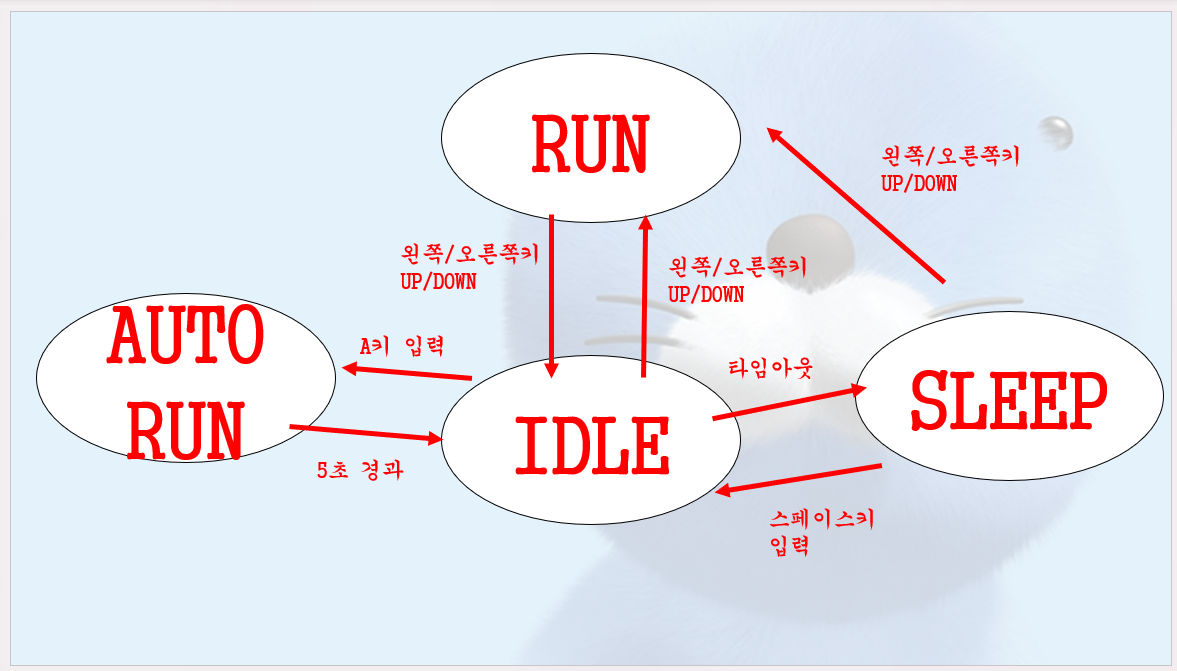
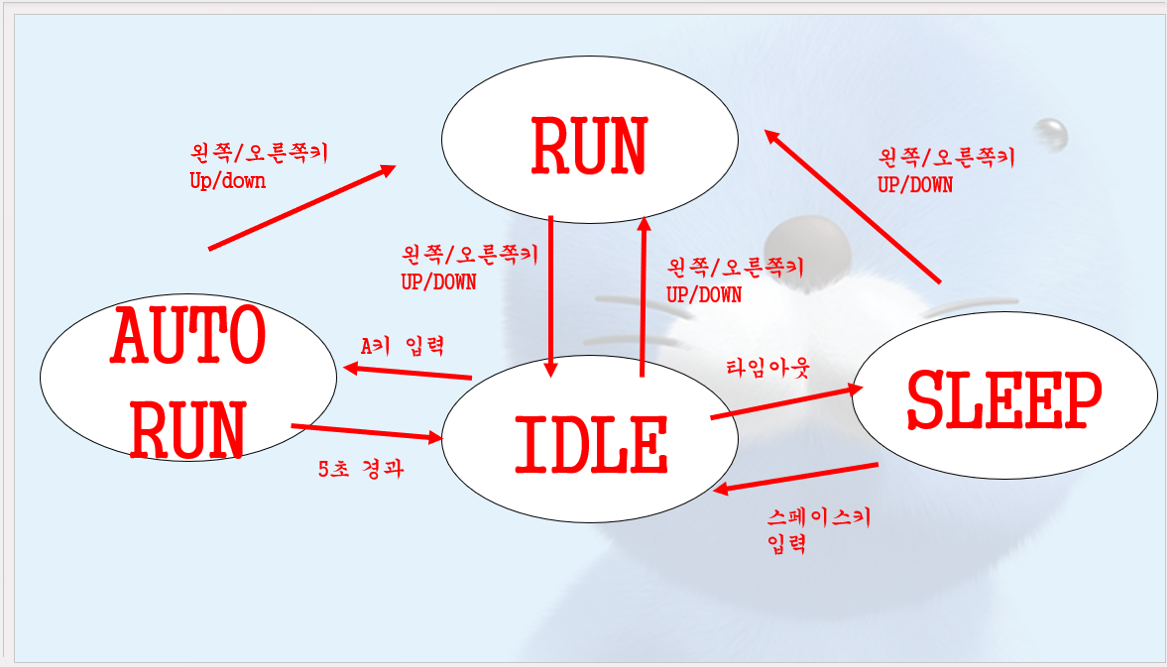
driil9 2022180029 이세영
무적런상태에서 방향키를 누르면 런상태로 전환

diff --git a/boy.py b/boy.py
@@ -39,7 +39,8 @@ class AutoRun:
     def do(boy):
         boy.frame = (boy.frame + 1) % 8
         boy.x += boy.dir * 30
-        if (boy.x > 700 or boy.x < 100): boy.dir = boy.dir * -1; boy.action = not boy.action
+        if (boy.x > 700): boy.dir = -1; boy.action = 0
+        if (boy.x < 0) : boy.dir = boy.dir =1; boy.action =1
         if get_time() - boy.wait_time > 5:
             boy.state_machine.handle_event(('TIME_OUT', 0))
 
@@ -126,7 +127,7 @@ class StateMachine:
             Idle: {right_down: Run, left_down: Run, left_up: Run, right_up: Run, time_out: Sleep ,a_down: AutoRun},
             Run: {right_down: Idle, left_down: Idle, right_up: Idle, left_up: Idle},
             Sleep: {right_down: Run, left_down: Run, right_up: Run, left_up: Run, space_down: Idle},
-            AutoRun: {time_out: Idle}
+            AutoRun: {time_out: Idle,right_down: Run, left_down: Run, left_up: Run, right_up: Run }
         }
 
     def start(self):
